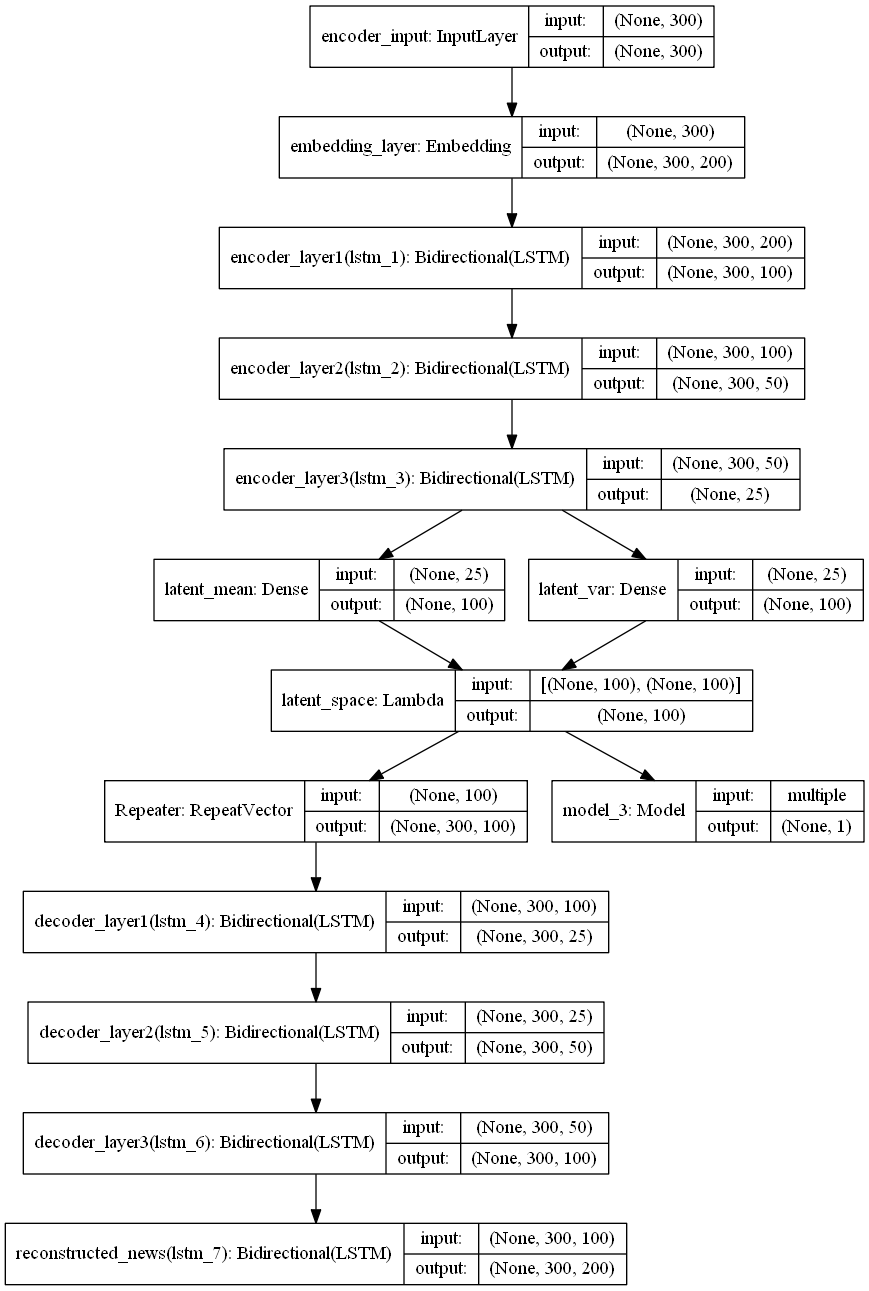
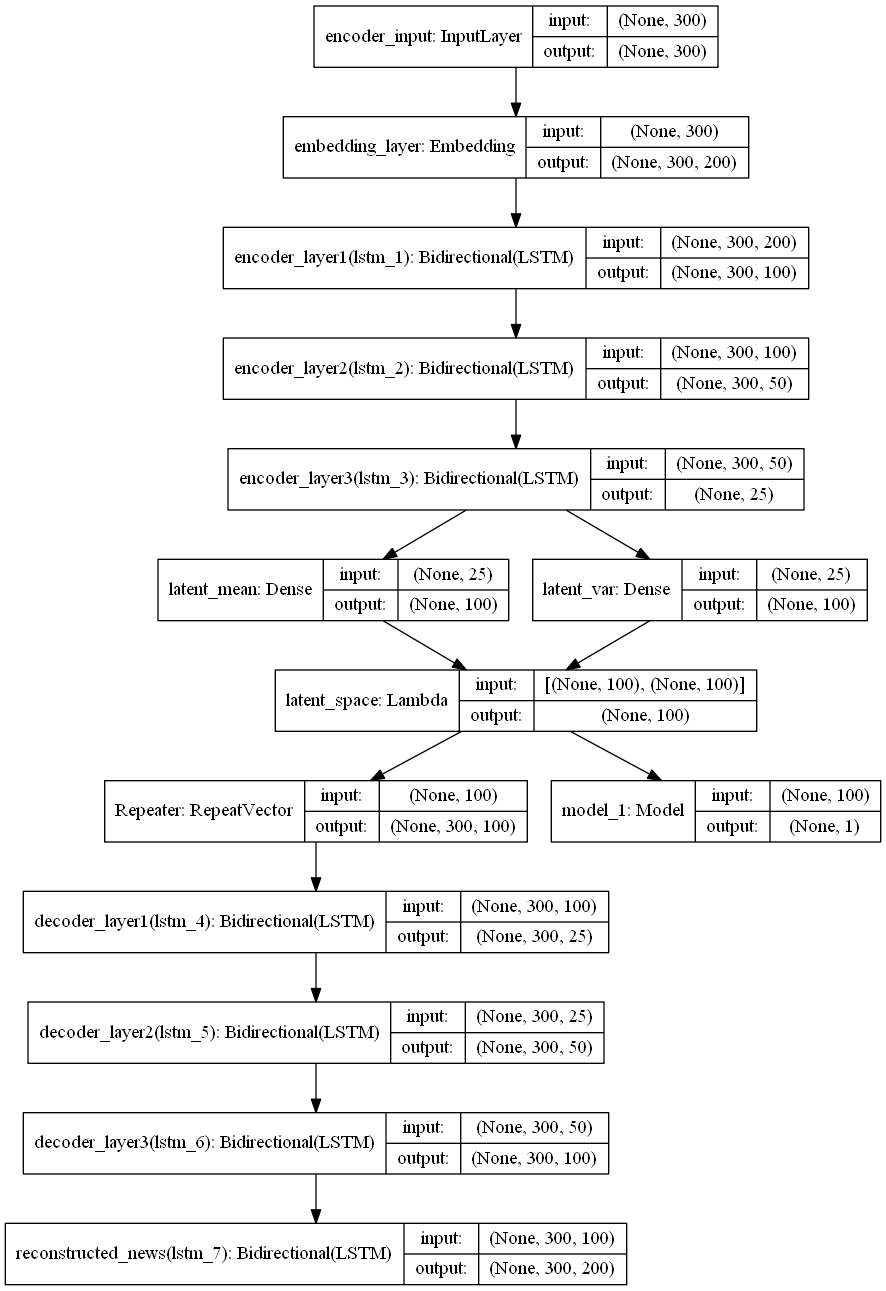
Unfinished

diff --git a/adversarial_autoencoder/adversarial_autoencoder.py b/adversarial_autoencoder/adversarial_autoencoder.py
@@ -79,67 +79,37 @@ class AAE() :
         self.latent_size = latent_size
         self.nb_classes = nb_classes
         self.nb_epoch = nb_epoch
-
-        ####################################### encoder 모델 #######################################
         
         # encoder의 input
         original_sentences = Input(shape = (self.sentences_length, ), name = 'encoder_input')
         # encoder의 output
         latent_space = self.encoder_model(original_sentences)
-        # encoder 모델
-        self.encoder = Model(inputs = original_sentences, outputs = latent_space)
 
-        print("encoder model\n", self.encoder.summary(), "\n\n\n")
-        plot_model(self.encoder, self.pictures_path + "/encoder.png", show_shapes = True, show_layer_names = True)
-
-        
-
-
-        ####################################### decoder 모델 #######################################
-
+        # autoencoder model
         reconstructed_sentences = self.decoder_model(latent_space)
-        # decoder 모델
-        self.decoder = Model(inputs = original_sentences, outputs = reconstructed_sentences)
 
-        print("decoder model\n", self.decoder.summary(), "\n\n\n")
-        plot_model(self.decoder, self.pictures_path + "/decoder.png", show_shapes = True, show_layer_names = True)
-
-
-
-        #################################### discriminator 모델 ####################################
-
-        discriminator_decision = self.discriminator_model(latent_space)
-        # discriminator 모델
-        self.discriminator = Model(inputs = original_sentences, outputs = discriminator_decision)
+        # discriminator model
+        discriminator_input = Input(shape = (self.latent_size, ), name = 'discriminator_input')
+        discriminator_decision = self.discriminator_model(discriminator_input)
+        self.discriminator = Model(inputs = discriminator_input, outputs = discriminator_decision)
 
         print("discriminator model\n", self.discriminator.summary(), "\n\n\n")
         plot_model(self.discriminator, self.pictures_path + "/discriminator.png", show_shapes = True, show_layer_names = True)
 
 
-
-
-        ############################### adversarial_autoencoder 모델 ###############################
-        
+        # adversarial_autoencoder 모델
         # generator를 훈련시킬 때는 discriminator의 weights를 고정함
         self.discriminator.trainable = False
         fake_or_real = self.discriminator(latent_space)
 
         # adversarial_autoencoder
+        # encoder에서 나온 fake_or_real와 train함수의 ones와 비교
         self.adversarial_autoencoder = Model(inputs = original_sentences,
                                              outputs = [reconstructed_sentences, fake_or_real])
         
         print("adversarial_autoencoder model\n", self.adversarial_autoencoder.summary())
         plot_model(self.adversarial_autoencoder, self.pictures_path + "/adversarial_autoencoder.png",
                    show_shapes = True, show_layer_names = True)
-        
-        
-        model = (self.encoder).to_json()
-        with open(self.architectures_path + "/encoder.json", "w", encoding = 'utf-8') as fp :
-            fp.write(model)
-
-        model = (self.decoder).to_json()
-        with open(self.architectures_path + "/decoder.json", "w", encoding = 'utf-8') as fp :
-            fp.write(model)
 
         model = (self.discriminator).to_json()
         with open(self.architectures_path + "/discriminator.json", "w", encoding = 'utf-8') as fp :
